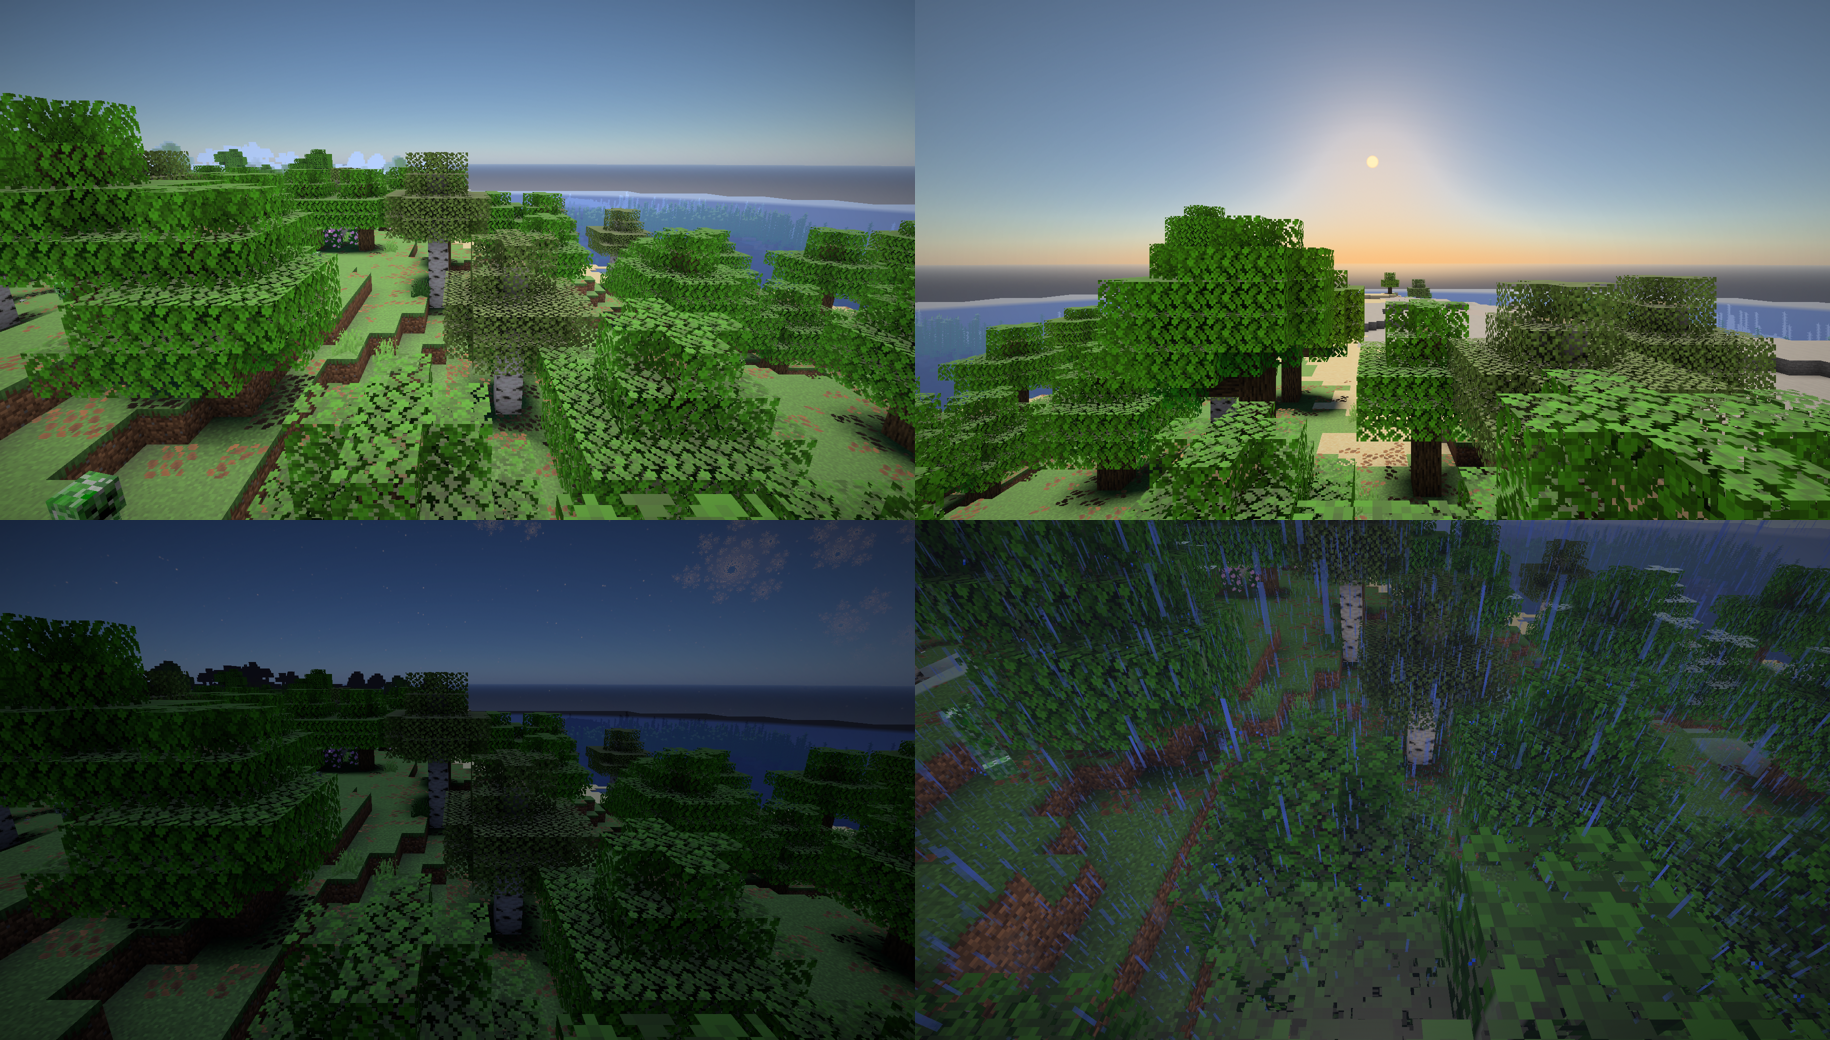
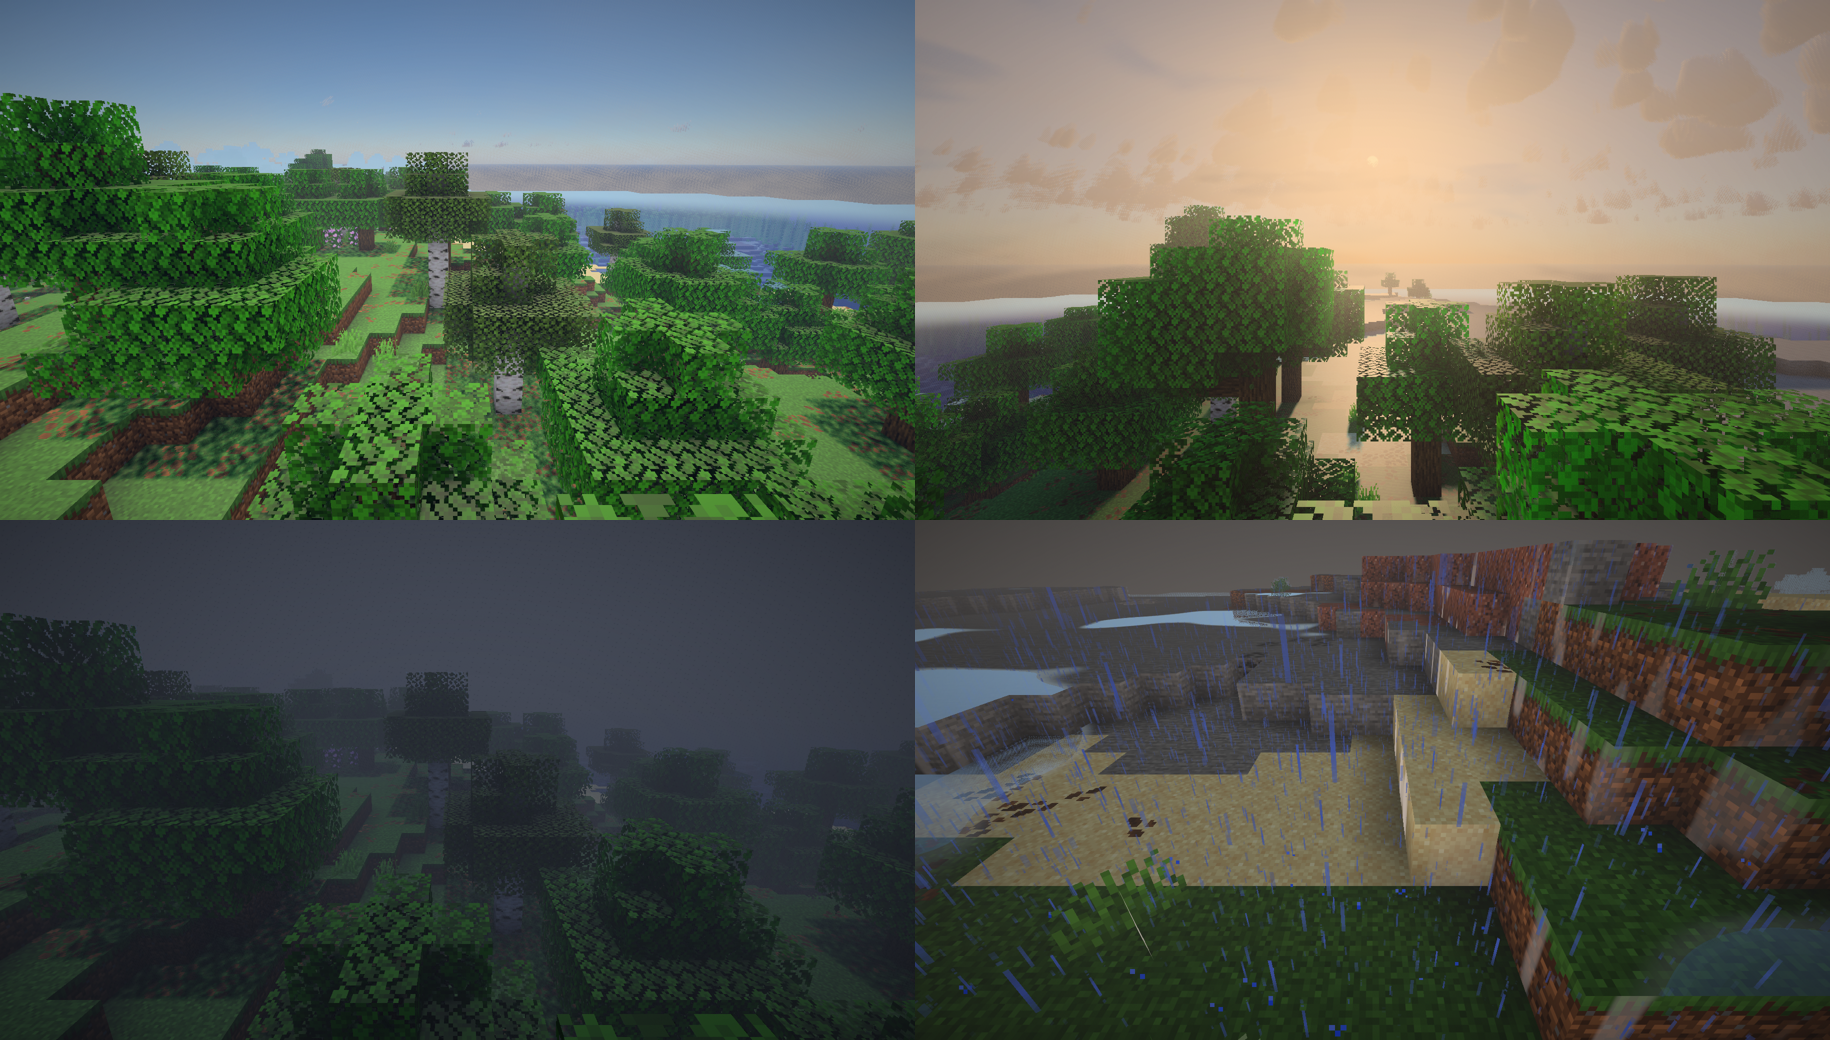
03 Reflejos de pantalla en la composición; niebla nocturna pegada al suelo
Trazado del rayo reflejado contra la profundidad (16/32 pasos crecientes y
bisección) para el terreno sólido liso, por Fresnel; sin impacto, el cielo de la
tabla por la luz de cielo del punto, que ahora viaja en el dato de set_surface
(F0, fracción indirecta y luz de cielo, 8 bits cada uno). El material deja de
poner su reflejo aproximado donde lo pone el trazado. Los charcos reflejan.

Niebla: la uniforme decae con una altura de escala de 70 bloques sobre el mar
+ 20 y la de noche baja a 0,6; con la uniforme constante hasta Y = 320 tapaba
del todo las estrellas y el cielo fractal. Duda pasada a la especificación.

diff --git a/docs/efectos/luz-de-superficie.md b/docs/efectos/luz-de-superficie.md
@@ -11,8 +11,8 @@ con refuerzo y color de `[[lights]]`, luz mínima, especular GGX del sol, reflej
 superficies lisas y metales, LabPBR completo (suavidad, F0, metales predefinidos, SSS, porosidad, emisión,
 normales), emisión sin PBR por téxeles brillantes, humedad y charcos, y `set_surface` para post.
 
-**Pendiente:** los **reflejos en espacio de pantalla** van en la pasada post de composición, que nace con el
-subsistema 05. La sombra y el grosor del SSS vienen del 04 (`docs/efectos/sombras.md`).
+Los **reflejos en espacio de pantalla** van en la pasada post de composición (05). La sombra y el grosor del
+SSS vienen del 04 (`docs/efectos/sombras.md`).
 
 **Luz de cielo ×1,8** (`OPC_LUZ_CIELO_BASE`): la tabla da cielo/sol ≈ 0,08 a mediodía y las sombras salían
 oscuras; ×1,8 lo lleva al 0,1–0,2 de `convenciones.md` y deja las sombras azuladas, no negras.
@@ -98,14 +98,27 @@ suavidad 0,97, F0 0,02, normal de la cara. Ruido procedural (`nucleo/ruido`), si
 ### Datos para post
 
 `set_surface(normal, suavidad, dato)`: `scene_surface` es de 32 bits por canal (Horizon guarda la normal
-como bits de un f32), así que el dato lleva **F0 y la fracción indirecta en 8 bits cada uno**
-(`nucleo/superficie/datos.wgsl`), como proponía la especificación.
+como bits de un f32), así que el dato lleva **F0, la fracción indirecta y la luz de cielo de Minecraft en 8
+bits cada uno** (24 bits: entero exacto en un f32; `nucleo/superficie/datos.wgsl`). La especificación
+proponía los dos primeros; la luz de cielo hace falta para el reflejo de cielo de los rayos que no impactan.
+
+### Reflejos de pantalla
+
+En la composición (`adaptadores/reflejo.wgsl`, `nucleo/superficie/reflejo_pantalla.wgsl`), para el terreno
+sólido con suavidad ≥ 0,7 (`OPC_SUAVIDAD_REFLEJO_PANTALLA`): el material **no** pone su reflejo aproximado
+del cielo en esas superficies (lo sustituye el trazado, no se suma). Trazado del rayo reflejado en el espacio
+de la escena, 16 pasos (32 en «altos») crecientes al cuadrado hasta 48 bloques, el primero desplazado por
+ruido, impacto cuando el rayo pasa por detrás de la profundidad de la escena con un grosor de 0,3 + 0,15·t
+bloques, y 4 pasos de bisección; las posiciones se reconstruyen con `projection·view` y su inversa (datos de
+`frame`). Se funde en el 8 % del borde de la pantalla. Sin impacto, el cielo aproximado de la tabla en la
+dirección reflejada × curva de la luz de cielo del punto. Por Fresnel con rugosidad sobre el F0 del dato. Sin
+paquete PBR solo lo usan los charcos.
 
 ## Opciones
 
 Página «Luz»: brillo de la luz de cielo y de bloque (0–2), color de la luz de bloque, luz mínima en cuevas
 (0,5) y al aire libre (0), SSS (apagado, lista, LabPBR, ambas), su brillo, brillo especular del sol, emisión
-LabPBR y charcos. «Reflejos de pantalla» llegará con la pasada de composición.
+LabPBR, reflejos de pantalla (apagados, bajos, altos) y charcos.
 
 ## Coste
 

diff --git a/docs/efectos/niebla-y-nubes.md b/docs/efectos/niebla-y-nubes.md
@@ -57,6 +57,12 @@ código (medido): el presupuesto de 64 por etapa no aprieta.
 
 - **Aire:** Rayleigh (0,5; 1,2; 2,9)·10⁻⁴ y Mie 1·10⁻⁴ por bloque al nivel del mar, altura de escala 600
   bloques. Afinado a ojo: azula y aclara lo lejano sin velar lo cercano.
+- **Niebla uniforme pegada al suelo (desviación, duda para A):** además de la caída desde Y = 320, la uniforme
+  decae con una altura de escala de 70 bloques sobre «mar + 20» (`VOL_UNIFORME_ALTURA`), y la de noche es
+  0,6. Con la uniforme constante hasta 320, mirar arriba de noche atravesaba ~240 bloques de niebla densa
+  (τ ≈ 5) y **tapaba del todo las estrellas y el cielo fractal**, que en la referencia de Vulpe
+  (`forge_cielo.png`) se ven de noche. Así sigue densa a ras de suelo y el cielo se intuye atenuado. Con el
+  mod nativo debería ser la altura media del terreno (`frame.mods[0].w`) en vez del mar.
 - **Niebla:** extinción 0,02 por bloque con densidad relativa 1; manchas de ruido 3D (celdas de 96×40×96
   bloques) umbralizadas, que caen por encima del mar + 24; caída global `exp(−0,025·(y − 320))`.
   Luz: sol × sombra × fase + ambiente ×0,1–0,25 (más mirando arriba). El ambiente es bajo a propósito:
@@ -76,7 +82,7 @@ Once perfiles (despejado, cúmulos pequeños, grandes, ambos, altoestratos, mixt
 cobertura de cada capa; uno por cuarto de día sorteado con PCG del número de día (`frame.mods[0].z`; 0 sin
 mod: se repite cada día), fundido con el siguiente en el último 20 % del cuarto. Con lluvia se mezcla hacia
 perfiles de lluvia (cobertura 0,65–0,95, densidad ×1,3–1,8). **Horario de la niebla** (relativo): amanecer
-uniforme 0,06 y manchas 0,5; mediodía 0; atardecer uniforme 0,1; noche uniforme 1 y manchas 0,15;
+uniforme 0,06 y manchas 0,5; mediodía 0; atardecer uniforme 0,1; noche uniforme 0,6 y manchas 0,15;
 transiciones de 0,08 de día. Lluvia: +0,5 uniforme y +0,4 manchas (× opción). Biomas húmedos: más manchas
 con `downfall` alto y temperatura templada. En cuevas (luz de cielo en la cámara baja) la niebla queda al 5 %.
 
